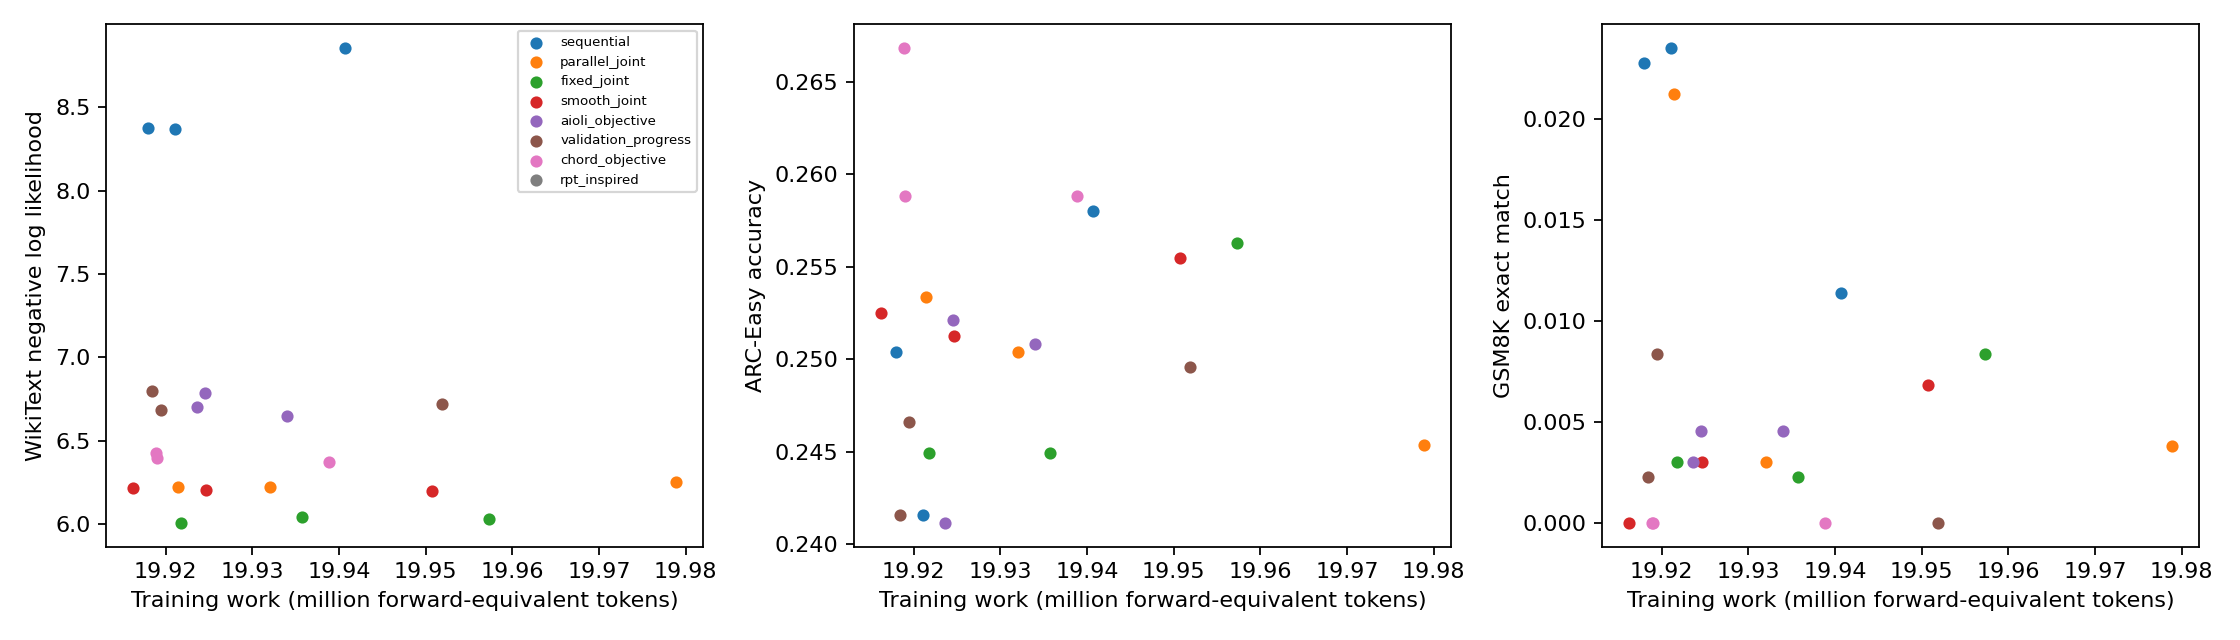
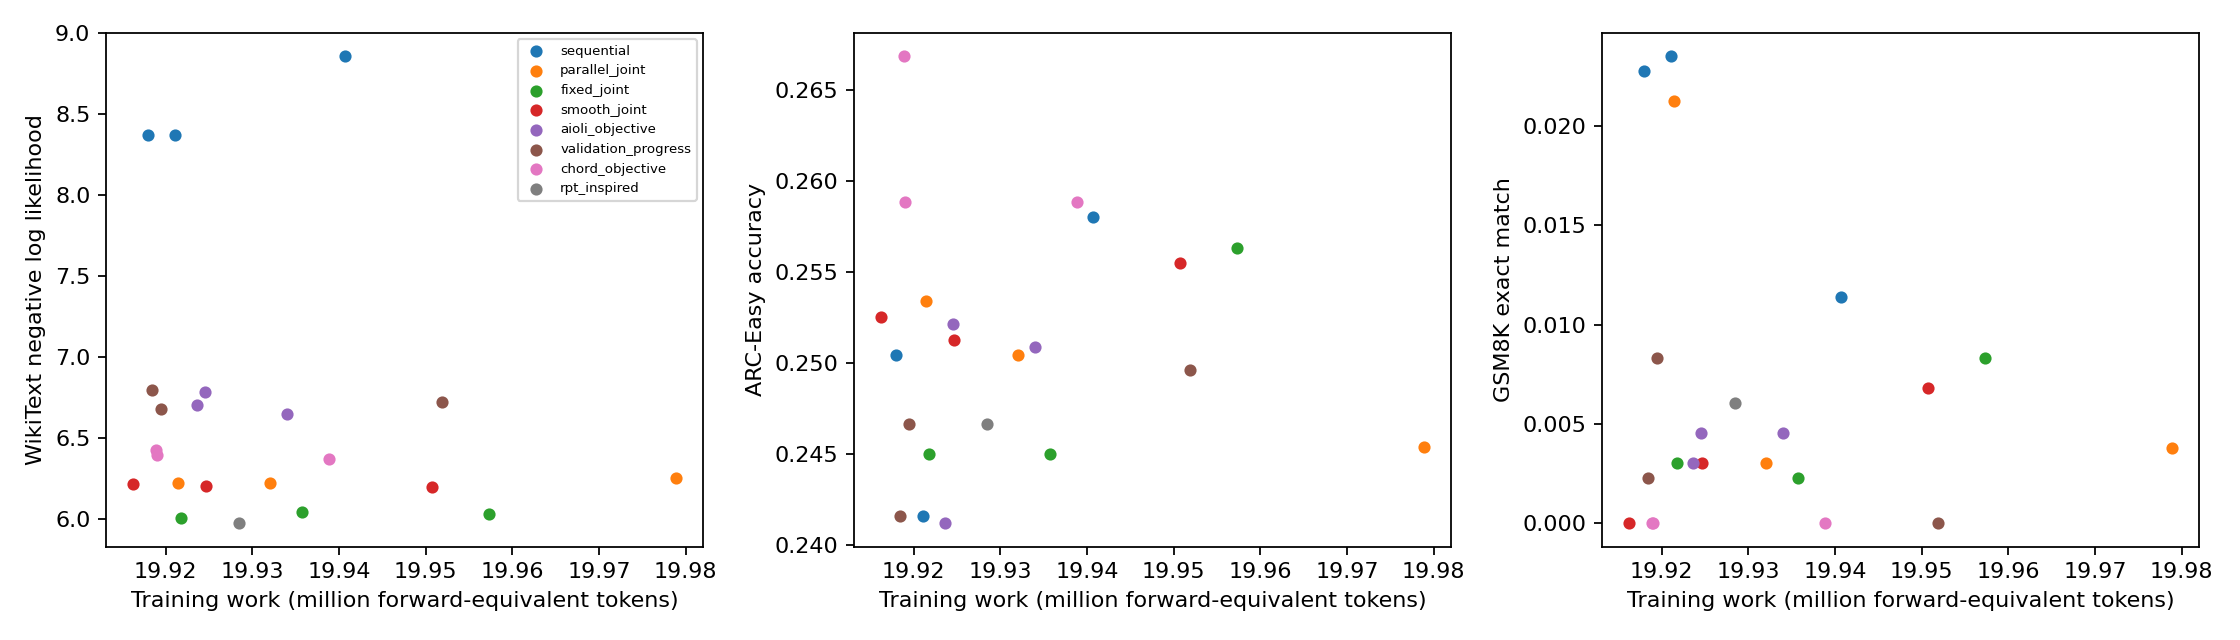
Report verified unified-training pilot progress

diff --git a/experiments/01_scratch_joint_objectives/results.md b/experiments/01_scratch_joint_objectives/results.md
@@ -25,7 +25,7 @@
 | chord_objective | 0 | complete | 19.919 | 0.2668 [0.2494, 0.2850] | 0.0000 [0.0000, 0.0029] | 6.4287 [6.4017, 6.4579] | 0.4805 [0.4200, 0.5415] / 0.5586 [0.4973, 0.6181] |
 | chord_objective | 1 | complete | 19.939 | 0.2588 [0.2416, 0.2768] | 0.0000 [0.0000, 0.0029] | 6.3724 [6.3460, 6.4014] | 0.4766 [0.4162, 0.5376] / 0.5234 [0.4624, 0.5838] |
 | chord_objective | 2 | complete | 19.919 | 0.2588 [0.2416, 0.2768] | 0.0000 [0.0000, 0.0029] | 6.3972 [6.3709, 6.4250] | 0.4805 [0.4200, 0.5415] / 0.5625 [0.5013, 0.6219] |
-| rpt_inspired | 0 | pending | unavailable | unavailable | unavailable | unavailable | unavailable |
+| rpt_inspired | 0 | complete | 19.929 | 0.2466 [0.2297, 0.2644] | 0.0061 [0.0031, 0.0119] | 5.9751 [5.9454, 6.0066] | 0.4844 [0.4238, 0.5454] / 0.4531 [0.3933, 0.5143] |
 | rpt_inspired | 1 | pending | unavailable | unavailable | unavailable | unavailable | unavailable |
 | rpt_inspired | 2 | pending | unavailable | unavailable | unavailable | unavailable | unavailable |
 
@@ -33,7 +33,7 @@ NLL = negative log likelihood; preference raw ordering is the preference endpoin
 
 Intervals: 95% Wilson binary-item score, conditional on each trained model; p-val=n/a (no hypothesis test). Three seeds do not establish universal superiority. Aioli, CHORD (Controllable Harmonization of On- and Off-Policy Reinforcement Learning via Dynamic Weighting), and RPT (Reinforcement Pre-Training) are declared adaptations; exact CHERRY-RL identity remains unresolved.
 
-Complete: 21/24. See `expt_v1/PROTOCOL.md` and the program review reconciliation.
+Complete: 22/24. See `expt_v1/PROTOCOL.md` and the program review reconciliation.
 
 Seed uncertainty, two-stage seed/item intervals, initial-checkpoint changes and all paired comparisons: `expt_v1/analysis.json`. Missing trained seeds remain missing with separate accuracy sensitivity bounds. p-val=n/a throughout; no formal superiority verdict.
 

diff --git a/experiments/00_program/FINAL_STATUS.md b/experiments/00_program/FINAL_STATUS.md
@@ -1,6 +1,6 @@
 # Full-program status
 
-Verified cells: 21/48; failed: 0; interrupted: 0; pending: 27; unstarted at global bound: 0.
+Verified cells: 22/48; failed: 0; interrupted: 0; pending: 26; unstarted at global bound: 0.
 
 Full-program execution is incomplete. Required plan and implementation findings are reconciled; see acceptance.json.
 Results and uncertainty are in each experiment folder; no universal-superiority claim.
